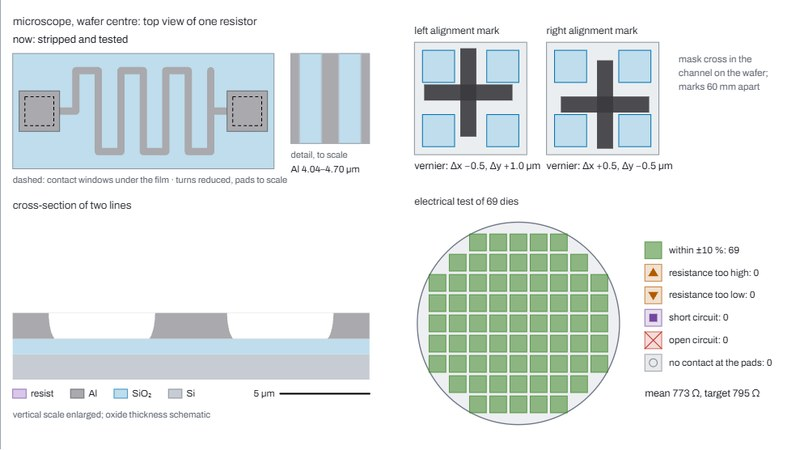
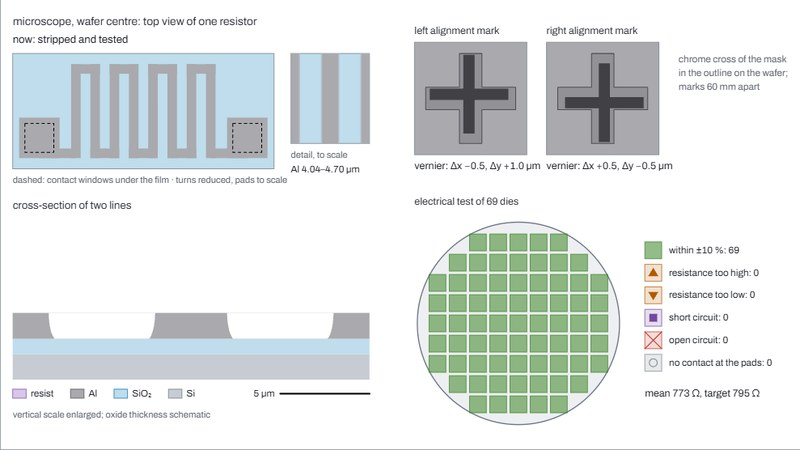
Process game: proper meander layout and cross alignment marks
Top view: eight full-height runs with equal lines and spaces, square
corners, joined alternately at top and bottom, pads at both ends; the
ghost of the mask pattern is drawn in one opaque tone. Alignment marks:
the outline of a cross left in the film by the layer below, and the
smaller chrome cross of the mask inside it, in a 20 um view.

Changed region(s): [[0.5, 0.0933, 1.0, 0.3422], [0.0, 0.1244, 0.3438, 0.3733], [0.0, 0.9956, 1.0, 1.0]]

diff --git a/widgets/processgame/widget.js b/widgets/processgame/widget.js
@@ -18,7 +18,7 @@
     { name: 'Soft bake', done: v => `${fmt.num(v.sbT, 0)} °C, ${fmt.num(v.sbt, 0)} s on the hotplate`,
       text: 'The film still holds solvent. For contact printing it has to be dry enough not to stick to the mask; a bake that is too hot or too long destroys photoactive compound. The data sheet gives a temperature range.' },
     { name: 'Alignment', done: v => `mask moved by (${sg(v.ax, 2)}, ${sg(v.ay, 2)}) µm, ${sg(v.ath, 0)} µrad`,
-      text: `The mask is loaded and sits a few micrometres off. At each of the two marks a dark cross on the mask has to sit in the middle of the cross-shaped channel on the wafer, with the same gap on both sides of every arm. Use the buttons or the sliders. The pads overlap the contact windows by ${O.enclosure} µm. The mask is ${O.dT} K warmer than at the first exposure, so a small opposite Δx at the two marks cannot be removed.` },
+      text: `The mask is loaded and sits a few micrometres off. At each of the two marks the wafer shows the outline of a cross, left in the film by the layer below. The dark chrome cross of the mask is a little smaller and has to sit in the middle of that outline, with the same gap all round. Use the buttons or the sliders. The pads overlap the contact windows by ${O.enclosure} µm. The mask is ${O.dT} K warmer than at the first exposure, so a small opposite Δx at the two marks cannot be removed.` },
     { name: 'Exposure', done: v => `${v.mode === 'prox' ? `proximity, gap ${fmt.num(v.gap, 0)} µm` : 'hard contact'}, ${fmt.num(v.dose, 0)} mJ/cm²`,
       text: `Set the dose; the aligner turns it into an exposure time at ${G.LAMP} mW/cm² (365 nm). The resist line should come out ${O.line} µm wide at the aluminium. The <a href="../development/index.html" target="_blank" rel="noopener">Development lesson</a> uses the same resist model: set your thickness and ${O.line} µm lines there to find the dose before you expose here.` },
     { name: 'Development', done: v => `${MFW_DEV.DEVELOPERS[v.dev].name}, ${fmt.num(v.tdev, 0)} s`,
@@ -108,18 +108,21 @@
       p.rect(TX0, TY0, TX1 - TX0, TY1 - TY0, { fill: field, stroke: C.axis, width: 1.5, noOcc: true });
       p.clip(TX0, TY0, TX1, TY1, () => {
         {
-          const xs = M.linspace(cxv - 1.2, cxv + 1.2, 7), pts = [[cxv - 1.85, cyv], [xs[0], cyv]];
-          xs.forEach((x, i) => { const y = cyv + (i % 2 ? -0.72 : 0.72); pts.push([x, y]); if (i < xs.length - 1) pts.push([xs[i + 1], y]); });
-          pts.push([xs[6], cyv], [cxv + 1.85, cyv]);
-          const sh = pts.map(([x, y]) => [x + dxy[0], y + dxy[1]]);
+          // layout: eight full-height runs with line = space, joined alternately at top and bottom, a pad at each end
+          const lw = 0.17, xs = M.linspace(cxv - 1.2, cxv + 1.2, 8), yb = cyv - 0.75, yt = cyv + 0.75, padY = yb - lw / 2 + 0.36;
           // before the pattern is on the wafer: the mask layout as a faint ghost, so the target is visible from the start
-          const ghost = !lines && st < 5, colr = lines || C.white, al = ghost ? 0.16 : 1;
+          const ghost = !lines && st < 5, colr = lines || MFW.mix(field, C.white, 0.16);
           if (lines || ghost) {
-            p.path(sh, { color: colr, width: 13, cap: 'butt', alpha: al, noOcc: true });
-            for (const sx of [-1, 1]) p.rect(cxv + sx * 1.85 - 0.36 + dxy[0], cyv - 0.36 + dxy[1], 0.72, 0.72, { fill: colr, fillAlpha: al, stroke: ghost ? null : lineStroke, width: 1, noOcc: true });
+            const R = (x0, y0, x1, y1) => p.box(x0 + dxy[0], y0 + dxy[1], x1 + dxy[0], y1 + dxy[1], { fill: colr, stroke: null, noOcc: true });
+            xs.forEach((x, k) => {
+              R(x - lw / 2, yb - lw / 2, x + lw / 2, yt + lw / 2);                                   // run
+              if (k < xs.length - 1) { const y = k % 2 ? yb : yt; R(x - lw / 2, y - lw / 2, xs[k + 1] + lw / 2, y + lw / 2); }   // link to the next run
+            });
+            R(cxv - 1.85, yb - lw / 2, xs[0], yb + lw / 2); R(xs[7], yb - lw / 2, cxv + 1.85, yb + lw / 2);   // leads to the pads
+            for (const sx of [-1, 1]) R(cxv + sx * 1.85 - 0.36, padY - 0.36, cxv + sx * 1.85 + 0.36, padY + 0.36);
           }
+          for (const sx of [-1, 1]) p.rect(cxv + sx * 1.85 - 5 * upm, padY - 5 * upm, 10 * upm, 10 * upm, { stroke: C.white, width: 1.5, dash: [0.05, 0.05], noOcc: true });
         }
-        for (const sx of [-1, 1]) p.rect(cxv + sx * 1.85 - 5 * upm, cyv - 5 * upm, 10 * upm, 10 * upm, { stroke: C.white, width: 1.5, dash: [0.05, 0.05], noOcc: true });
       });
       p.text(st < 5 ? 'faint: the pattern on the mask, not yet on the wafer · dashed: contact windows' : 'dashed: contact windows under the film · turns reduced, pads to scale', X0, TY0 - 0.2, { size: 0.16, color: C.muted });
       // detail of three lines, to scale (20 µm wide)
@@ -198,35 +201,35 @@
       p.text('5 µm', X1 - 5 * kx - 0.1, BOT - 0.25, { size: 0.17, align: 'right', color: C.text });
       p.text(st === 4 ? 'vertical scale enlarged · yellow: exposed resist, invisible on a real wafer' : 'vertical scale enlarged; oxide thickness schematic', X0, BOT - 0.62, { size: 0.16, color: C.muted });
 
-      // ======================================================== alignment marks: mask cross in a cross-shaped channel (to scale)
+      // ======================================================== alignment marks: chrome cross of the mask inside the cross outline on the wafer (to scale)
+      const crossPts = (cx0, cy0, a, b, u) => [[-a, -b], [a, -b], [a, -a], [b, -a], [b, a], [a, a], [a, b], [-a, b], [-a, a], [-b, a], [-b, -a], [-a, -a]].map(([x, y]) => [cx0 + x * u, cy0 + y * u]);
       const view = (x0, y0, S, title, dd, rd) => {
-        const u = S / 14, xc = x0 + S / 2, yc = y0 + S / 2;
+        const u = S / 20, xc = x0 + S / 2, yc = y0 + S / 2;                  // 20 µm field of view
+        // what the microscope sees: the aluminium film (tinted by the resist once it is coated) with the step that
+        // the contact-window layer left in it – a cross 4 µm wide and 16 µm long
+        const ground = st >= 1 && st < 8 ? MFW.mix(cMetal, cRes, 0.45) : cMetal;
         p.text(title, x0, y0 + S + 0.2, { size: 0.18, color: C.greyA });
-        p.rect(x0, y0, S, S, { fill: C.greyE, stroke: C.axis, width: 1.5, noOcc: true });
+        p.rect(x0, y0, S, S, { fill: ground, stroke: C.axis, width: 1.5, noOcc: true });
         p.clip(x0, y0, x0 + S, y0 + S, () => {
-          for (const qx of [-1, 1]) for (const qy of [-1, 1])                 // wafer layer: four squares leave a 4 µm wide cross
-            p.rect(xc + (qx > 0 ? 2 : -6) * u, yc + (qy > 0 ? 2 : -6) * u, 4 * u, 4 * u, { fill: cOx, stroke: MAT.sio2.stroke, width: 1.5, noOcc: true });
-          if (st >= 2) {                                                      // mask layer: cross with 2 µm arms – 1 µm gap on each side when aligned
-            const mx = xc + dd.dx * u, my = yc + dd.dy * u, o2 = { fill: MAT.chrome.fill, fillAlpha: 0.9, stroke: null, noOcc: true };
-            p.rect(mx - 5.5 * u, my - 1 * u, 11 * u, 2 * u, o2);
-            p.rect(mx - 1 * u, my - 5.5 * u, 2 * u, 11 * u, o2);
-          }
+          p.polygon(crossPts(xc, yc, 2, 8, u), { fill: MFW.mix(ground, C.white, 0.14), stroke: MAT.metal.stroke, width: 1.5, noOcc: true });
+          // mask: a chrome cross 2 µm wide and 14 µm long – 1 µm of gap all round when aligned
+          if (st >= 2) p.polygon(crossPts(xc + dd.dx * u, yc + dd.dy * u, 1, 7, u), { fill: MAT.chrome.fill, fillAlpha: 0.92, stroke: null, noOcc: true });
         });
         p.text(st >= 2 ? `vernier: Δx ${sg(rd[0])}, Δy ${sg(rd[1])} µm` : 'mask not loaded', x0, y0 - 0.2, { size: 0.18, color: C.text });
       };
       if (st === 2) {                                                         // the alignment station: marks large, no wafer map
         view(0.25, 0.55, 2.95, 'left alignment mark', res.mk.left, [res.read.lx, res.read.ly]);
         view(3.55, 0.55, 2.95, 'right alignment mark', res.mk.right, [res.read.rx, res.read.ry]);
-        p.text('Centre each dark cross in its channel: equal gaps on both sides of every arm.', 0.25, -0.2, { size: 0.19, color: C.text });
-        p.text(`The gap is 1 µm when aligned. Verniers read in 0.5 µm steps; the marks are ${O.marksL} mm apart.`, 0.25, -0.55, { size: 0.17, color: C.muted });
+        p.text('Centre each dark cross inside the outline on the wafer: the same gap all round.', 0.25, -0.2, { size: 0.19, color: C.text });
+        p.text(`The gap is 1 µm when aligned; each view is 20 µm wide. Verniers read in 0.5 µm steps.`, 0.25, -0.55, { size: 0.17, color: C.muted });
         p.text('A difference in Δy between the marks is a rotation; a difference in Δx is run-out and stays.', 0.25, -0.85, { size: 0.17, color: C.muted });
         if (res.read.off) p.text('A mark is off the vernier scale (more than 2.5 µm).', 0.25, -1.2, { size: 0.17, color: C.red });
         return;
       }
       view(0.25, 1.25, 2.0, 'left alignment mark', res.mk.left, [res.read.lx, res.read.ly]);
       view(2.6, 1.25, 2.0, 'right alignment mark', res.mk.right, [res.read.rx, res.read.ry]);
-      p.text('mask cross in the', 4.95, 2.95, { size: 0.17, color: C.muted });
-      p.text('channel on the wafer;', 4.95, 2.7, { size: 0.17, color: C.muted });
+      p.text('chrome cross of the mask', 4.95, 2.95, { size: 0.17, color: C.muted });
+      p.text('in the outline on the wafer;', 4.95, 2.7, { size: 0.17, color: C.muted });
       p.text(`marks ${O.marksL} mm apart`, 4.95, 2.45, { size: 0.17, color: C.muted });
       if (st >= 2 && res.read.off) p.text('off the vernier scale', 4.95, 1.9, { size: 0.17, color: C.red });
 

diff --git a/widgets/processgame/index.html b/widgets/processgame/index.html
@@ -138,7 +138,7 @@
         <li><b>Resistance.</b> Calculated with the bulk resistivity of aluminium, 2.650 × 10⁻⁸ Ω·m. A thin film has a higher resistivity because of its grain boundaries and surfaces; no thin-film value was verified, so every resistance here is a lower bound. Contact resistance is not modelled.</li>
         <li><b>Proximity printing</b> is limited to gaps of 10–30 µm. The image model uses an ideal grating and one wavelength and would show sharp images again at certain larger gaps (Talbot effect), which broadband light does not.</li>
         <li><b>Scenario.</b> Wafer, film, mask layout, temperature offset, test limit and scoring are chosen for the game. The film thickness across the wafer follows the cosine law for a small planar source 30 cm away. The mask sits up to 3 µm and 120 µrad off before alignment, at random for each wafer.</li>
-        <li>The top view is what a microscope would show at the wafer centre, with a simplified layout: a few turns instead of the full meander. The pads, their offset against the contact windows and the detail of three lines are to scale. The cross-section is drawn with an enlarged vertical scale and a schematic oxide thickness; after exposure it shows the latent image, which cannot be seen on a real wafer. The alignment marks (a 2 µm cross on the mask in a 4 µm channel on the wafer) are an example, to scale in their frames.</li>
+        <li>The top view is what a microscope would show at the wafer centre, with a simplified layout: eight runs instead of the full meander, drawn with equal lines and spaces. The pads, their offset against the contact windows and the detail of three lines are to scale. The cross-section is drawn with an enlarged vertical scale and a schematic oxide thickness; after exposure it shows the latent image, which cannot be seen on a real wafer. The alignment marks are an example, to scale in their 20 µm frames: a chrome cross 2 µm wide on the mask inside the outline of a cross 4 µm wide that the layer below left in the film.</li>
       </ul>
     </article>
 
@@ -168,6 +168,6 @@
 <script src="../dryetch/model.js?v=a3e5dd44fd"></script>
 <script src="../fourpoint/model.js?v=95e6dd96d9"></script>
 <script src="model.js?v=6ad2edf5c4"></script>
-<script src="widget.js?v=2fdd1a64cd"></script>
+<script src="widget.js?v=2c42ca4d5e"></script>
 </body>
 </html>
